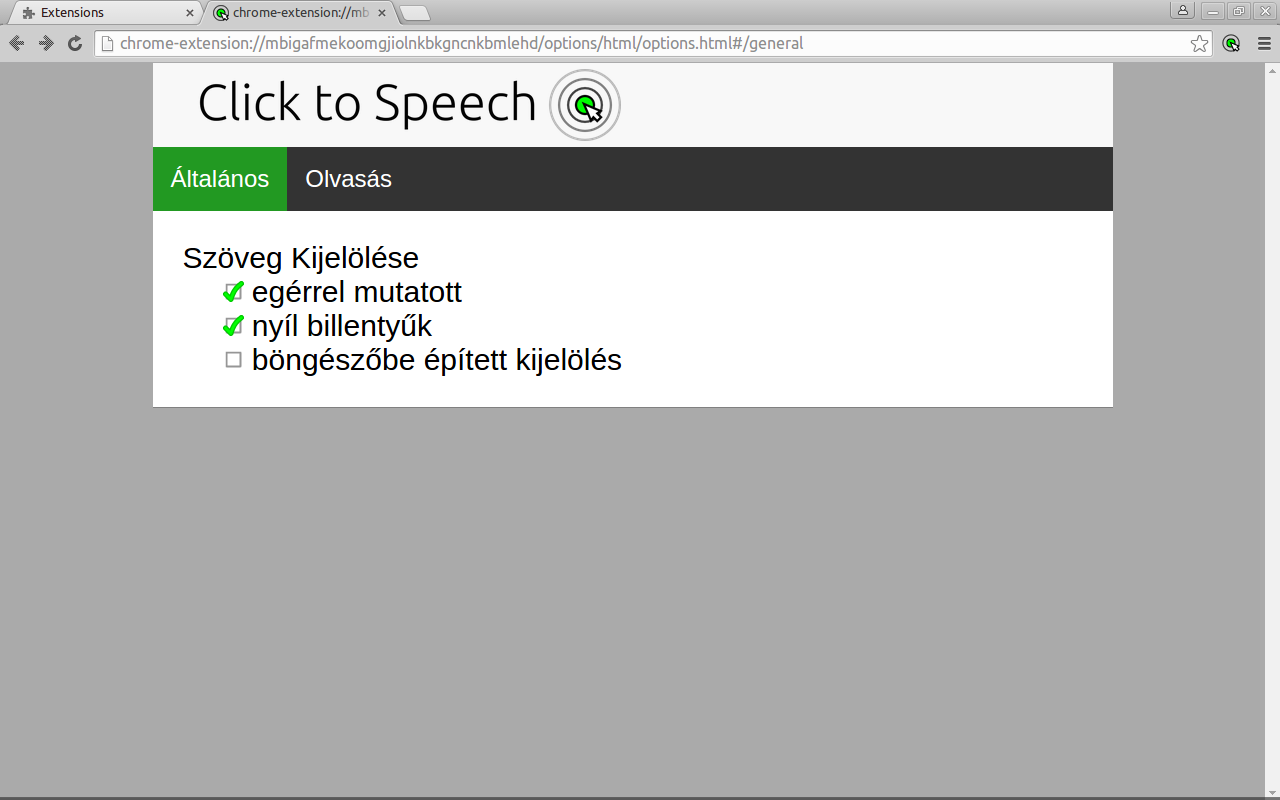
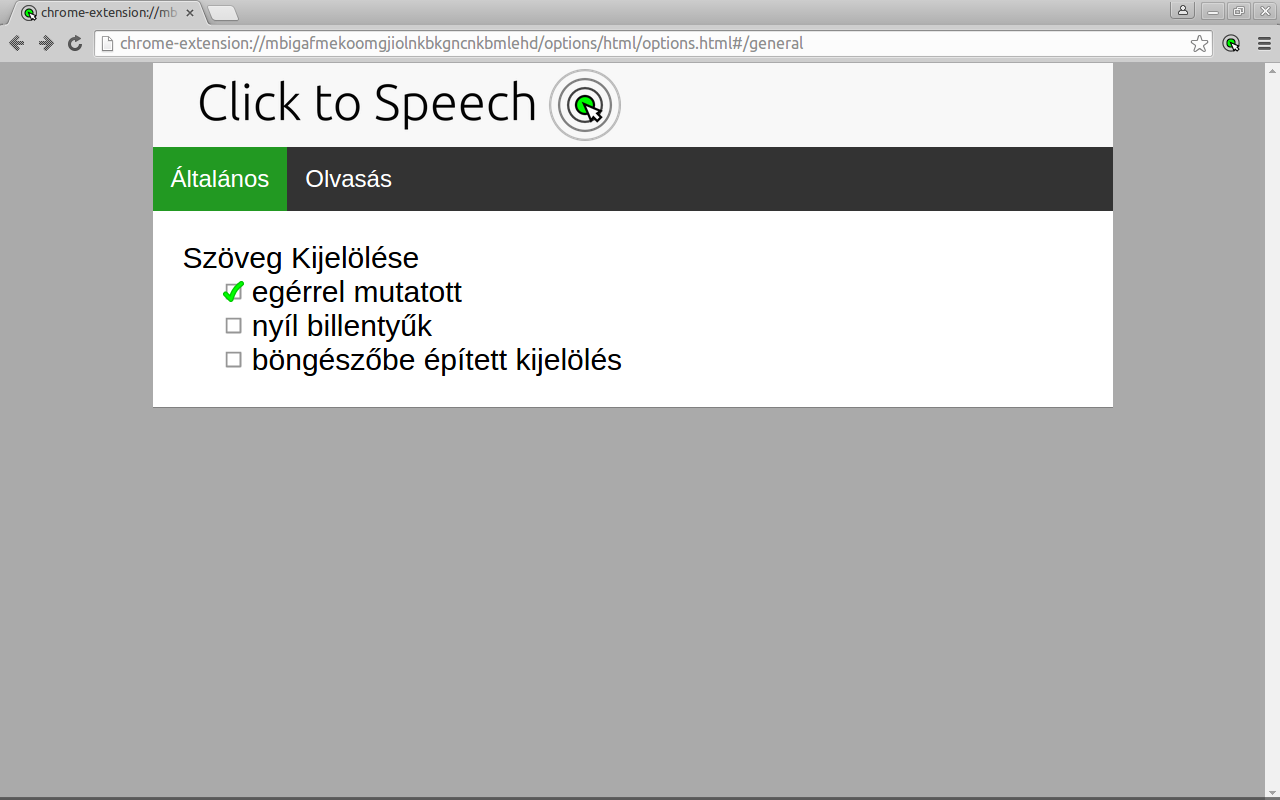
arrowSelect false by default closes #76

Changed region(s): [[0.0, 0.0, 0.3438, 0.0312], [0.1562, 0.4062, 0.1875, 0.4375]]

diff --git a/chrome/background/js/SettingsHandler.js b/chrome/background/js/SettingsHandler.js
@@ -4,7 +4,7 @@ define([], function() {
 	var defaultValues = {
 		turnedOn:true
 		,hoverSelect:true
-		,arrowSelect:true
+		,arrowSelect:false
 		,browserSelect:false
 		,tts:"iSpeech"
 		,gender:"female"
